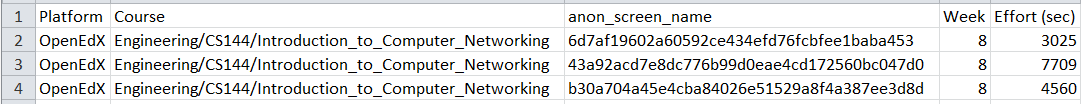
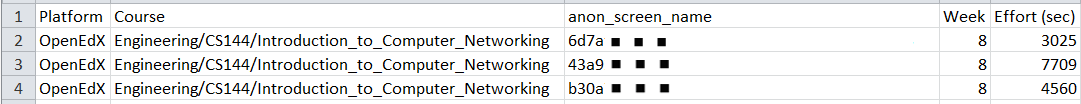
Replaced UIDs with fakes.

Changed region(s): [[0.5495, 0.7788, 0.8548, 0.9231], [0.5495, 0.5481, 0.8548, 0.6923], [0.5495, 0.3173, 0.8548, 0.4615]]

diff --git a/Datastage/index.html b/Datastage/index.html
@@ -869,10 +869,10 @@ mysql> SELECT DISTINCT Demographics.*, FinalGrade.grade
 +------------------------------------------+--------+---------------+----------+--------------------+-----------------------+---------------+-------+
 | anon_screen_name                         | gender | year_of_birth | curr_age | level_of_education | country_three_letters | country_name  | grade |
 +------------------------------------------+--------+---------------+----------+--------------------+-----------------------+---------------+-------+
-| 18070a6cbf7c75ea6b6a53cf08d875e50a4dc1fb | m      |          1989 |       25 | User withheld      | BGR                   | Bulgaria      |     0 |
-| f42a592a30690dc43bdd3d0ece1019c79b88c8ac | m      |          1987 |       27 | Bachelors          | USA                   | United States |     0 |
-| 20bd8681086b0ddb994e1fec2d0de110f55bc1da | m      |          1990 |       24 | Bachelors          | USA                   | United States |     0 |
-| 610467062fa05ff271198cfcc689febe856f48e7 |        |          NULL |     NULL | User withheld      | FRA                   | France        |     0 |
+| 1234567890abcdefghijklmnopqrstuvwxyz1234 | m      |          1989 |       25 | User withheld      | BGR                   | Bulgaria      |     0 |
+| 234567890abcdefghijklmnopqrstuvwxyz12345 | m      |          1987 |       27 | Bachelors          | USA                   | United States |     0 |
+| 34567890abcdefghijklmnopqrstuvwxyz123456 | m      |          1990 |       24 | Bachelors          | USA                   | United States |     0 |
+| 4567890abcdefghijklmnopqrstuvwxyz1234567 |        |          NULL |     NULL | User withheld      | FRA                   | France        |     0 |
 +------------------------------------------+--------+---------------+----------+--------------------+-----------------------+---------------+-------+
 </pre>
 
@@ -1180,9 +1180,9 @@ Each Forum post is contained in one row:
 +--------------------------+-----------------------------+---------------+-----------+--------------------+------------------+----------------------------------+
 | forum_post_id            | anon_screen_name            | type          | anonymous | anonymous_to_peers | at_position_list | forum_uid                        | ...
 +--------------------------+-----------------------------+---------------+-----------+--------------------+------------------+----------------------------------+
-| 519461545924670200000001 | &lt;anon_screen_name_redacted> | CommentThread | False     | False              | []               | AD0EB4DEEB4DC139D8FDA01000EDAE3E |
-| 519461545924670200000005 | &lt;anon_screen_name_redacted> | Comment       | False     | False              | []               | 5F43341D3FDA2BBE001D8DBBB84BB3E5 | ...
-| 519461555924670200000006 | &lt;anon_screen_name_redacted> | Comment       | False     | False              | []               | 5CA0BD47154EB68991F10C7F464F3BF3 |
+| 123456789012345678901234 | &lt;anon_screen_name_redacted> | CommentThread | False     | False              | []               | abcdefghijklmnopqrstuvwxyz123456 |
+| 123456789012345678901235 | &lt;anon_screen_name_redacted> | Comment       | False     | False              | []               | bcdefghijklmnopqrstuvwxyz1234567 | ...
+| 123456789012345678901236 | &lt;anon_screen_name_redacted> | Comment       | False     | False              | []               | cdefghijklmnopqrstuvwxyz12345678 |
 +--------------------------+-----------------------------+---------------+-----------+--------------------+------------------+----------------------------------+
 
 
@@ -1207,8 +1207,8 @@ Each Forum post is contained in one row:
 ... | count | down_count | up_count | up                                  | down                                     | comment_thread_id        | ...
     +--------------------------------------------------------------------------------------------------------------------------------------------
     |    10 |          8 |        2 | ['2', '10']                         | ['1', '3', '4', '5', '6', '7', '8', '9'] | None                     |
-... |    10 |          3 |        7 | ['1', '2', '5', '6', '7', '8', '9'] | ['3', '4', '10']                         | 519461545924670200000001 | ...
-    |    10 |          7 |        3 | ['6', '8', '10']                    | ['1', '2', '3', '4', '5', '7', '9']      | 519461545924670200000001 |
+... |    10 |          3 |        7 | ['1', '2', '5', '6', '7', '8', '9'] | ['3', '4', '10']                         | 1234567890123456789012345| ...
+    |    10 |          7 |        3 | ['6', '8', '10']                    | ['1', '2', '3', '4', '5', '7', '9']      | 1234567890123456789012345|
     +--------------------------------------------------------------------------------------------------------------------------------------------
 
 
@@ -1216,8 +1216,8 @@ Each Forum post is contained in one row:
 ... | parent_id | parent_ids | sk                       | confusion | happiness |
     +----------------------------------------------------------------------------
     | None      | None       | None                     |           |           |
-... | None      | []         | 519461545924670200000005 |           |           |
-    | None      | []         | 519461555924670200000006 |           |           |
+... | None      | []         | 123456789012345678901235 |           |           |
+    | None      | []         | 123456789012345678901236 |           |           |
     +----------------------------------------------------------------------------
 </pre>
 
